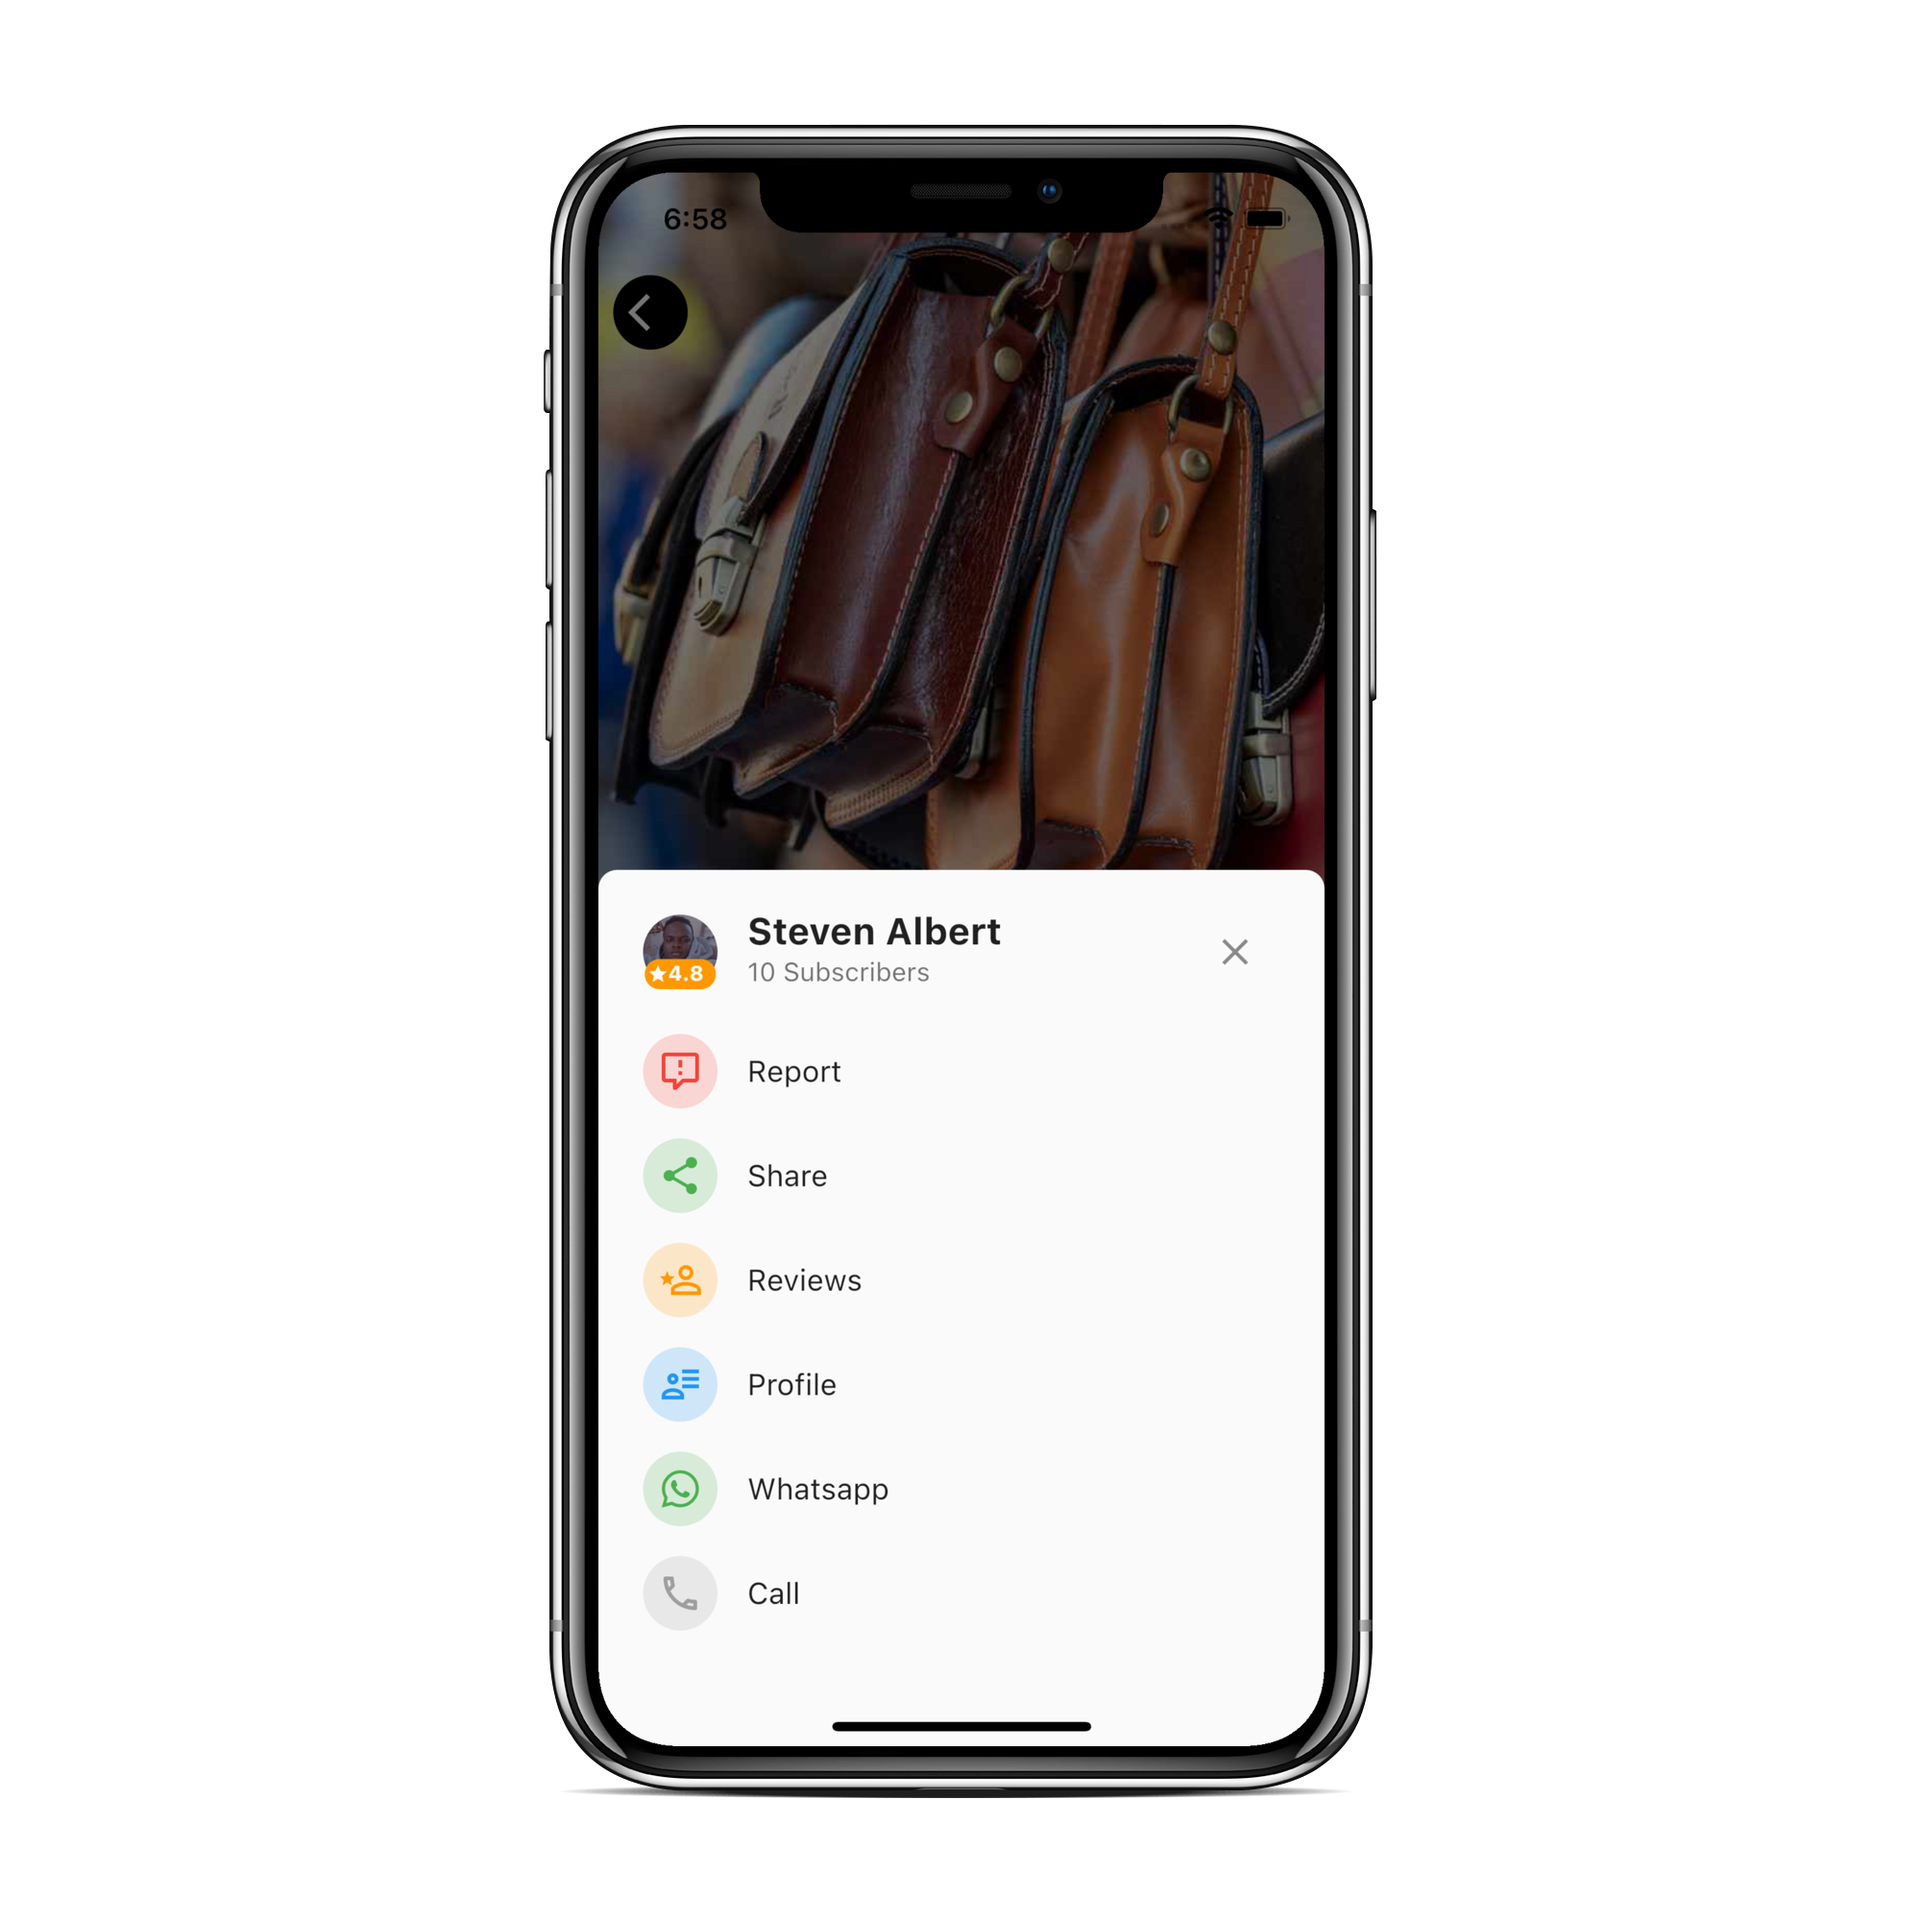
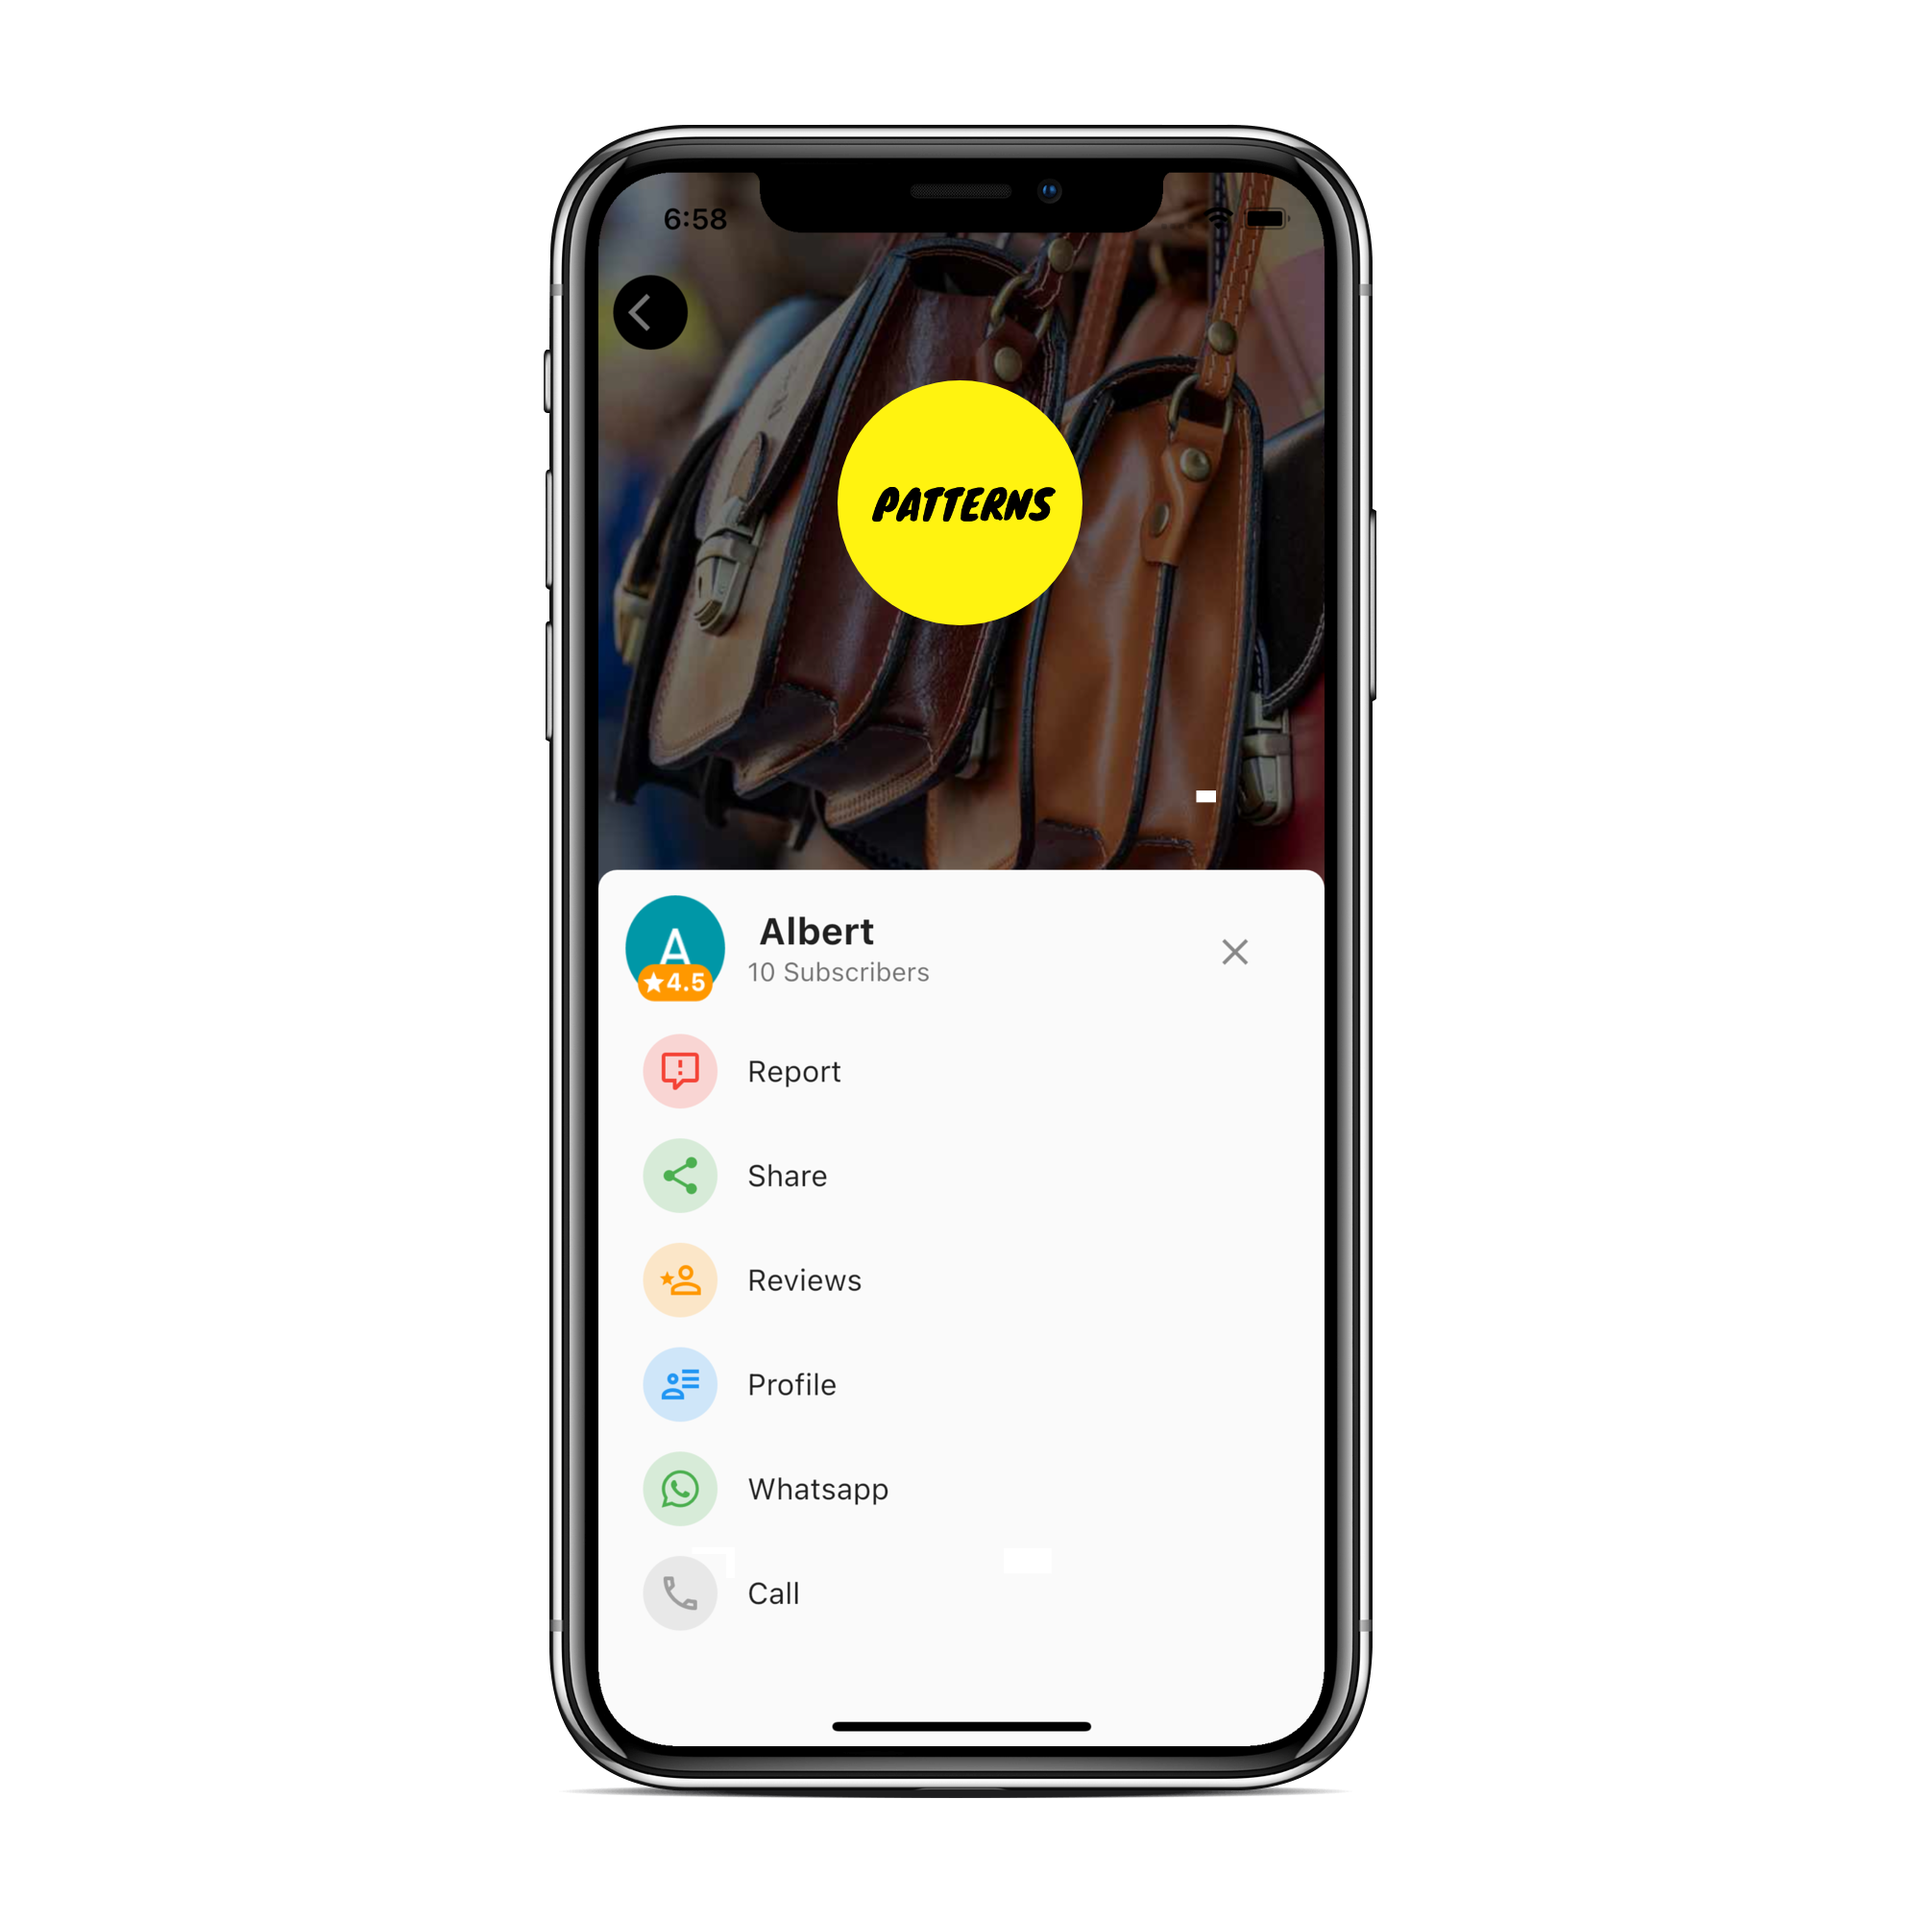
fixing

Changed region(s): [[0.434, 0.186, 0.589, 0.341], [0.31, 0.465, 0.527, 0.527]]

diff --git a/patterns.jo/lib/homeView.dart b/patterns.jo/lib/homeView.dart
@@ -32,9 +32,9 @@ class _HomeViewState extends State<HomeView> {
                           height: MediaQuery.of(context).size.height * 0.2,
                         ),
                         Image.asset(
-                          "aa.png",
-                          height: 100.0,
-                          width: 150.0,
+                          "patterns1.png",
+                          height: 140.0,
+                          width: 190.0,
                         ),
                         Padding(
                           padding: const EdgeInsets.all(8.0),
@@ -130,9 +130,9 @@ class _HomeViewState extends State<HomeView> {
                       height: MediaQuery.of(context).size.height * 0.2,
                     ),
                     Image.asset(
-                      "aa.png",
-                      height: 100.0,
-                      width: 150.0,
+                      "patterns1.png",
+                      height: 140.0,
+                      width: 190.0,
                     ),
                     Padding(
                       padding: const EdgeInsets.all(8.0),
@@ -269,18 +269,18 @@ class _HomeViewState extends State<HomeView> {
                   Padding(
                     padding: const EdgeInsets.all(8.0),
                     child: Text(
-                      "ENABLE LOCATION",
+                      "SHOPPING EXPERIENCE",
                       textAlign: TextAlign.center,
                       style: Theme.of(context)
                           .textTheme
                           .bodyText1!
-                          .copyWith(fontSize: 15.0, color: Colors.black),
+                          .copyWith(fontSize: 15.0, color: Colors.grey),
                     ),
                   ),
                   Padding(
                     padding: const EdgeInsets.all(8.0),
                     child: Text(
-                      "Discover businesses nearby",
+                      "Shop your favorite brand and pattern",
                       style: Theme.of(context).textTheme.headline3!.copyWith(
                           fontWeight: FontWeight.bold, color: Colors.black),
                     ),
@@ -288,7 +288,7 @@ class _HomeViewState extends State<HomeView> {
                   Padding(
                     padding: const EdgeInsets.all(8.0),
                     child: Text(
-                      "Find it from the nearest shop around you and get the products and services you need in a snapshot. Venda always shows you the way",
+                      "Patterns team will always focus on finding new ways for you to enjoy shopping your way!",
                       style: Theme.of(context).textTheme.bodyText1!.copyWith(
                             fontSize: 18.0,
                             height: 1.8,
@@ -333,7 +333,7 @@ class _HomeViewState extends State<HomeView> {
                       Padding(
                         padding: const EdgeInsets.all(8.0),
                         child: Text(
-                          "BUY OR SELL",
+                          "What's new",
                           textAlign: TextAlign.center,
                           style: Theme.of(context)
                               .textTheme
@@ -344,7 +344,7 @@ class _HomeViewState extends State<HomeView> {
                       Padding(
                         padding: const EdgeInsets.all(8.0),
                         child: Text(
-                          "Get more customers",
+                          "Stay updated with patterns",
                           style: Theme.of(context)
                               .textTheme
                               .headline3!
@@ -372,7 +372,7 @@ class _HomeViewState extends State<HomeView> {
               Padding(
                 padding: const EdgeInsets.all(8.0),
                 child: Image.asset(
-                  'profilescreenshot.png',
+                  'first.png',
                   fit: BoxFit.cover,
                   height: MediaQuery.of(context).size.height * 0.6,
                   width: MediaQuery.of(context).size.height * 0.4,
@@ -390,7 +390,7 @@ class _HomeViewState extends State<HomeView> {
               Padding(
                 padding: const EdgeInsets.all(8.0),
                 child: Image.asset(
-                  'profilescreenshot.png',
+                  'first.png',
                   fit: BoxFit.cover,
                   height: MediaQuery.of(context).size.height * 0.6,
                   width: MediaQuery.of(context).size.height * 0.4,
@@ -406,7 +406,7 @@ class _HomeViewState extends State<HomeView> {
                       Padding(
                         padding: const EdgeInsets.all(8.0),
                         child: Text(
-                          "BUY OR SELL",
+                          "STAY UPDATED",
                           textAlign: TextAlign.center,
                           style: Theme.of(context)
                               .textTheme
@@ -417,7 +417,7 @@ class _HomeViewState extends State<HomeView> {
                       Padding(
                         padding: const EdgeInsets.all(8.0),
                         child: Text(
-                          "Get more customers",
+                          "More textrue and patterns",
                           style: Theme.of(context)
                               .textTheme
                               .headline3!
@@ -429,7 +429,7 @@ class _HomeViewState extends State<HomeView> {
                       Padding(
                         padding: const EdgeInsets.all(8.0),
                         child: Text(
-                          "Become a vendor and boost your business. Earn from selling products and services. From services to listings and offers, give customers reasons to always choose you",
+                          "Stay updated to offers and items every season with unique collections",
                           style:
                               Theme.of(context).textTheme.bodyText1!.copyWith(
                                     fontSize: 18.0,
@@ -485,7 +485,7 @@ class _HomeViewState extends State<HomeView> {
                   Padding(
                     padding: const EdgeInsets.all(8.0),
                     child: Text(
-                      "Review or rate our products and let others know our reputation. It always builds trust and honesty",
+                      "Feedback always builds trust and honesty. Review or rate our products and let others know our reputation.",
                       style: Theme.of(context).textTheme.bodyText1!.copyWith(
                             fontSize: 18.0,
                             height: 1.8,
@@ -541,7 +541,7 @@ class _HomeViewState extends State<HomeView> {
                       Padding(
                         padding: const EdgeInsets.all(8.0),
                         child: Text(
-                          "More ways to reach Patterns team",
+                          "More ways to reach patterns team",
                           style: Theme.of(context)
                               .textTheme
                               .headline3!
@@ -553,7 +553,7 @@ class _HomeViewState extends State<HomeView> {
                       Padding(
                         padding: const EdgeInsets.all(8.0),
                         child: Text(
-                          "With the platforms, you love through WhatsApp and Calls. Patterns lets you contact our delivery team easily and quickly",
+                          "With the platforms you love through whatsapp or calls. Patterns lets you contact our delivery team easily and quickly",
                           style:
                               Theme.of(context).textTheme.bodyText1!.copyWith(
                                     fontSize: 18.0,
@@ -614,7 +614,7 @@ class _HomeViewState extends State<HomeView> {
                       Padding(
                         padding: const EdgeInsets.all(8.0),
                         child: Text(
-                          "More ways to reach Patterns team",
+                          "More ways to reach patterns team",
                           style: Theme.of(context)
                               .textTheme
                               .headline3!

diff --git a/patterns.jo/web/index.html b/patterns.jo/web/index.html
@@ -15,15 +15,19 @@
 
   <meta charset="UTF-8">
   <meta content="IE=Edge" http-equiv="X-UA-Compatible">
-  <meta name="description" content="Patterns.jo">
+  <meta name="description" content="Patterns Store. A clothing store that is located in (Amman - Jordan). Delivery is available within 24 hours.">
 
   <!-- iOS meta tags & icons -->
   <meta name="apple-mobile-web-app-capable" content="yes">
   <meta name="apple-mobile-web-app-status-bar-style" content="black">
-  <meta name="apple-mobile-web-app-title" content="patterns">
+  <meta name="apple-mobile-web-app-title" content="Patterns.jo">
   <link rel="apple-touch-icon" href="icons/Icon-192.png">
 
-  <title>patterns.jo</title>
+  <!-- ICONS -->>
+  <link rel="shorcut icon" href="favicon.ico" type="image/x-icon">
+  <link rel="icon" href="favicon.ico" type="image/x-icon">
+
+  <title>Patterns.jo</title>
   <link rel="manifest" href="manifest.json">
 </head>
 <body>
